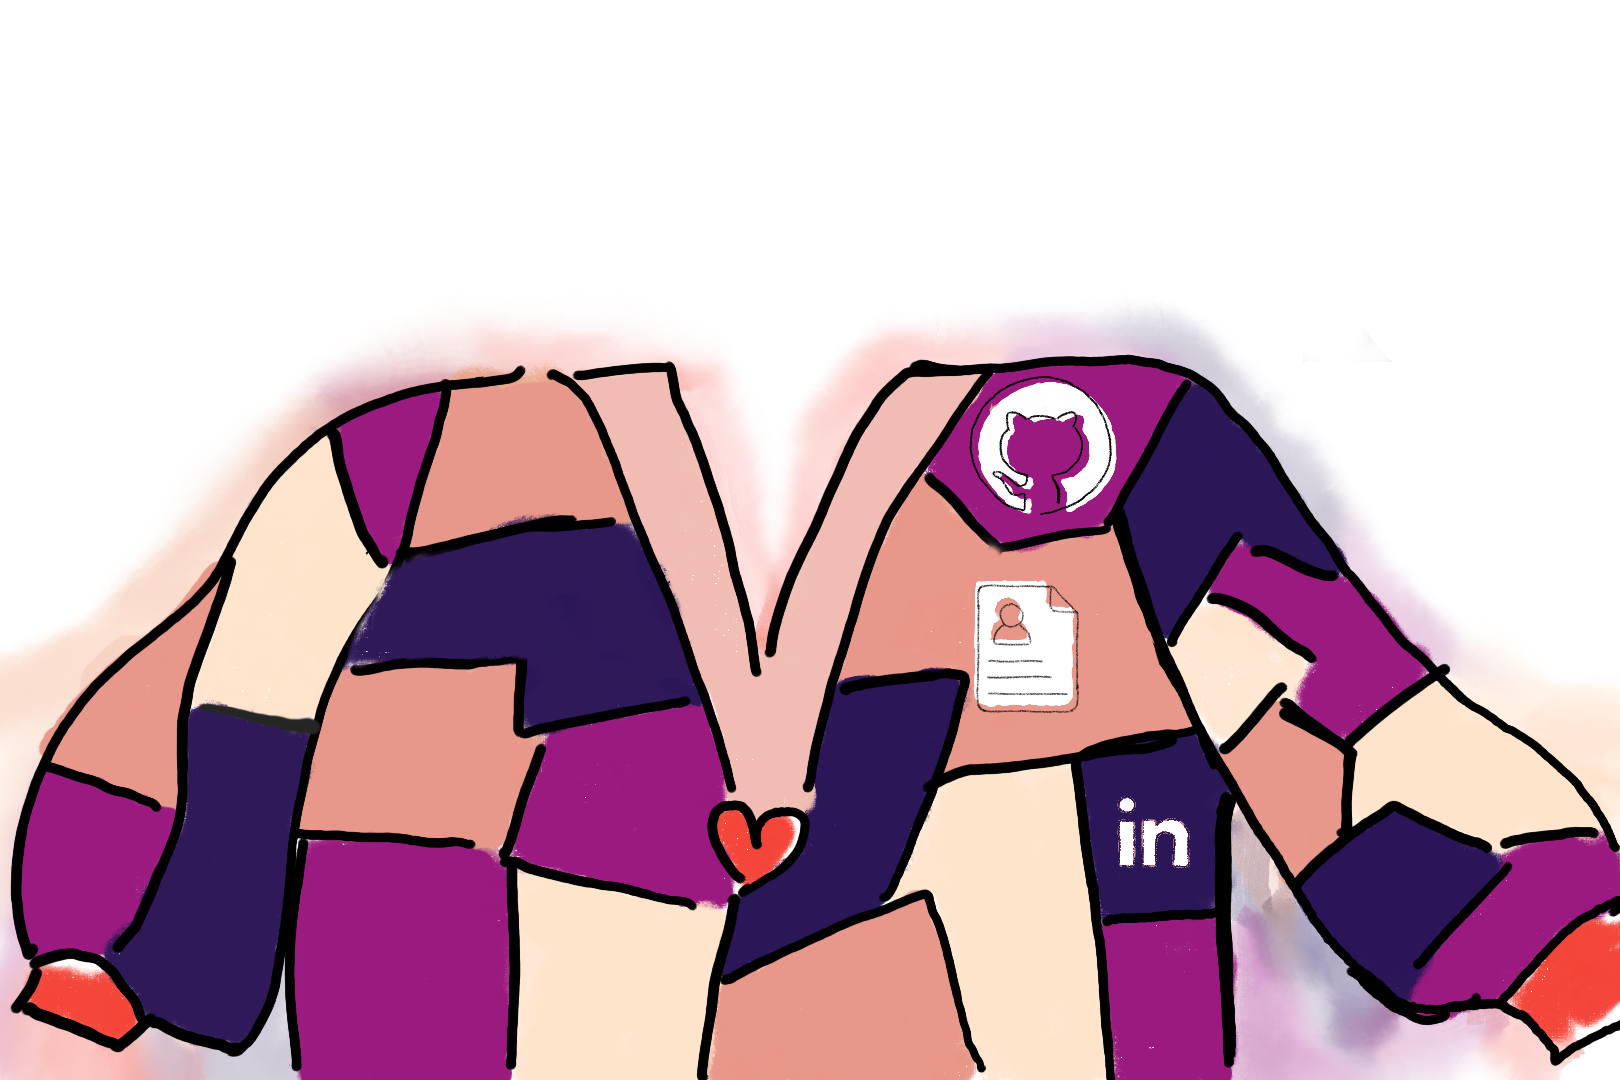
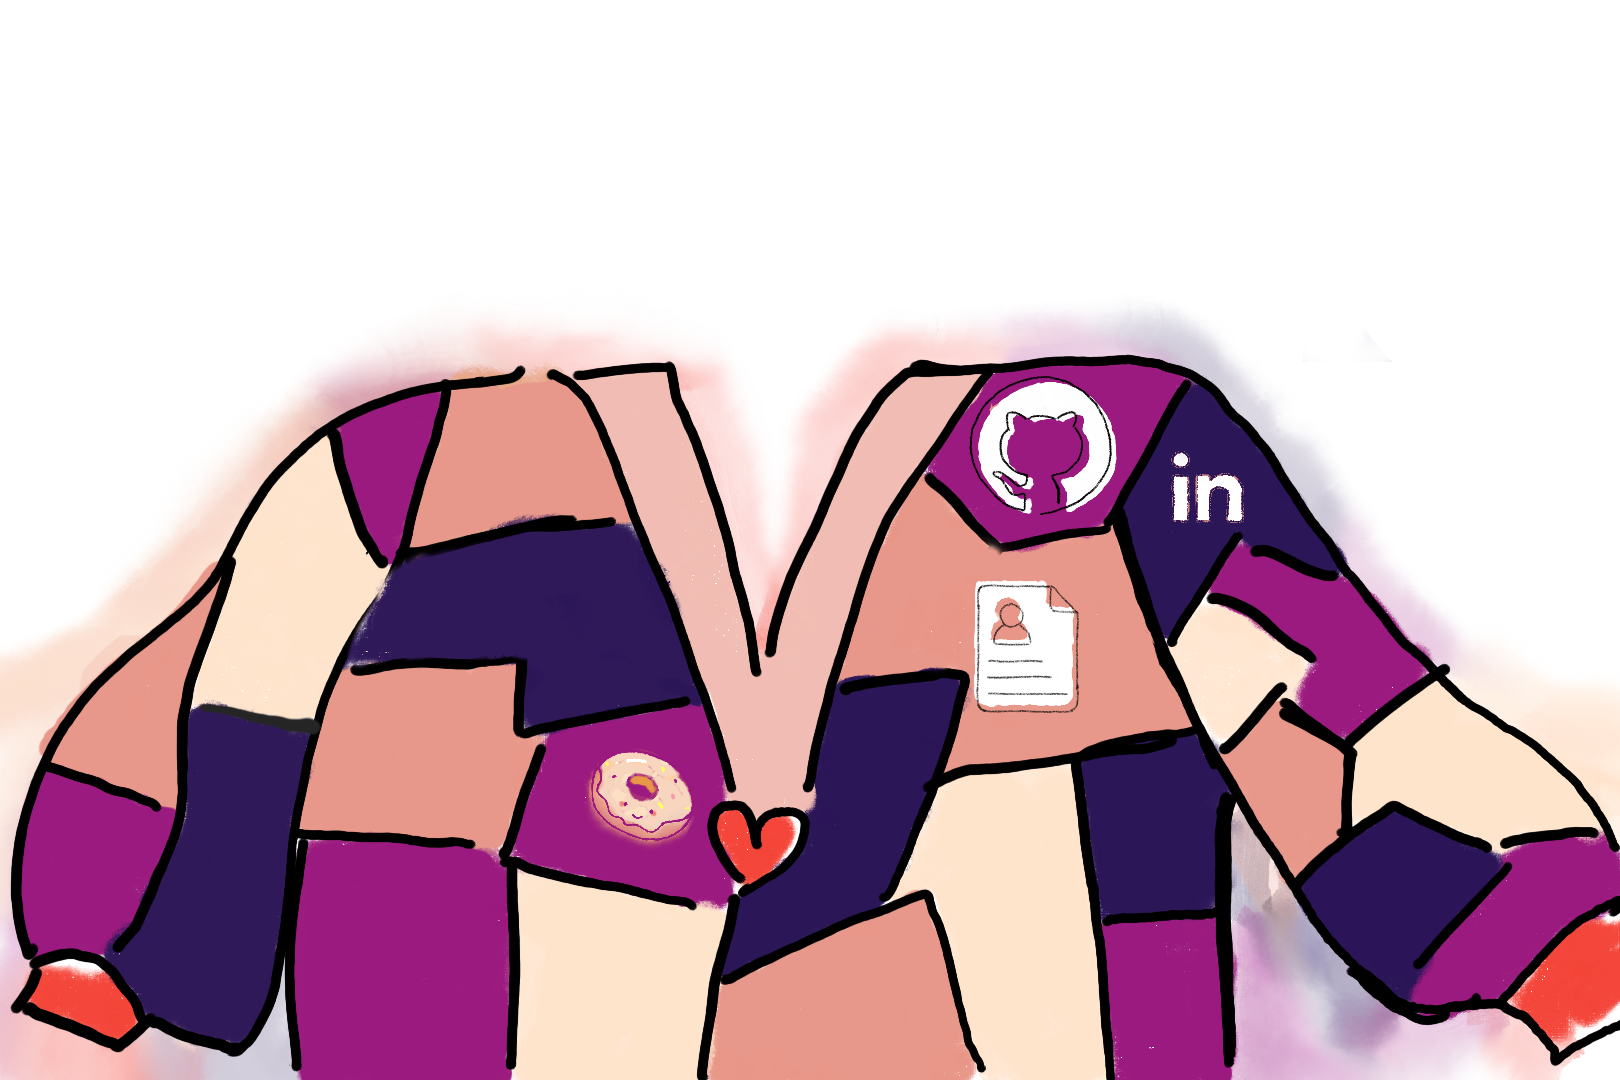
feat: update text and layout in InteractivePatches component and modify homepage content

Changed region(s): [[0.3395, 0.6722, 0.4321, 0.7944], [0.679, 0.7333, 0.7407, 0.825], [0.7099, 0.4278, 0.7716, 0.4889]]

diff --git a/src/components/InteractivePatches.tsx b/src/components/InteractivePatches.tsx
@@ -9,9 +9,9 @@ export default function InteractivePatches() {
         <g className="patch-group">
           <polygon 
             className="patch" 
-            points="401.5,557 338.5,671 523,665.5 518.5,734.5 700.5,697 635.5,515.5 401.5,557" 
+            points="441.5,393.5 403.5,554 633.5,515.5 579.5,380 441.5,393.5" 
           />
-          <text x="520" y="600" className="patch-text">Nga Vu</text>
+          <text x="520" y="450" className="patch-text">About Me</text>
         </g>
       </Link>
 
@@ -39,9 +39,9 @@ export default function InteractivePatches() {
         <g className="patch-group">
           <polygon
             className="patch"
-            points="1196,731.5 1078,759.5 1099.5,920 1226,911.5 1226,911.5 1226,813 1239,797 1196,731.5"
+            points="1194,376.5 1113.5,520 1161,644 1246,545 1348,564 1194,376.5"
           />
-          <text x="1150" y="830" className="patch-text">LinkedIn</text>
+          <text x="1220" y="480" className="patch-text">LinkedIn</text>
         </g>
       </Link>
 
@@ -52,19 +52,18 @@ export default function InteractivePatches() {
             points="340,671 295,829 516,856 548,750 516,734.5 516,671 340,671"
           />
           <text x="420" y="750" className="patch-text" fontSize="20">
-            <tspan x="400" dy="0">Software</tspan>
-            <tspan x="430" dy="35">Engineer</tspan>
+            Blogs
           </text>
         </g>
       </Link>
 
-      <Link href="" id="location-link" className="patch-link">
+      <Link href="" id="recipe-link" className="patch-link">
         <g className="patch-group">
           <polygon
             className="patch"
             points="707.5,704.5 551,733 508,853 726.5,911.5 739.5,894.5 714.5,853 714.5,818.5 733.5,798.5 707.5,704.5"
           />
-          <text x="610" y="800" className="patch-text">📍 Tempe,AZ</text>
+          <text x="610" y="800" className="patch-text">Recipes</text>
         </g>
       </Link>
 
@@ -72,9 +71,9 @@ export default function InteractivePatches() {
         <g className="patch-group">
           <polygon
             className="patch"
-            points="441.5,393.5 403.5,554 633.5,515.5 579.5,380 441.5,393.5"
+            points="401.5,557 338.5,671 523,665.5 518.5,734.5 700.5,697 635.5,515.5 401.5,557"
           />
-          <text x="500" y="450" className="patch-text">1</text>
+          <text x="500" y="600" className="patch-text">Projects</text>
         </g>
       </Link>
 
@@ -132,9 +131,9 @@ export default function InteractivePatches() {
         <g className="patch-group">
           <polygon
             className="patch"
-            points="1194,376.5 1113.5,520 1161,644 1246,545 1348,564 1194,376.5"
+            points="1196,731.5 1078,759.5 1099.5,920 1226,911.5 1226,911.5 1226,813 1239,797 1196,731.5"
           />
-          <text x="1194" y="450" className="patch-text">7</text>
+          <text x="1150" y="830" className="patch-text">7</text>
         </g>
       </Link>
     </svg>

diff --git a/src/app/page.tsx b/src/app/page.tsx
@@ -6,8 +6,8 @@ export default function Home() {
     <div className="container">
       <div className="overlay">
         <div className="content">
-          <h1>Welcome to My Website</h1>
-          <p>Come and explore every pieces of me!</p>
+          <h1>Nga (Jane) Vu</h1>
+          <p>Software Engineer | 📍Tempe,AZ</p>
         </div>
       </div>
       

diff --git a/src/app/globals.css b/src/app/globals.css
@@ -97,9 +97,8 @@ svg {
     transition: all 0.3s ease;
 }
 
-#about-link .patch-text,
-#job-link .patch-text,
-#location-link .patch-text {
+#about-link .patch-text
+{
     opacity: 1; /* Show text by default for the About patch */
     font-size: 2rem;
     text-shadow: 2px 2px 4px var(--cardigan-blue);
